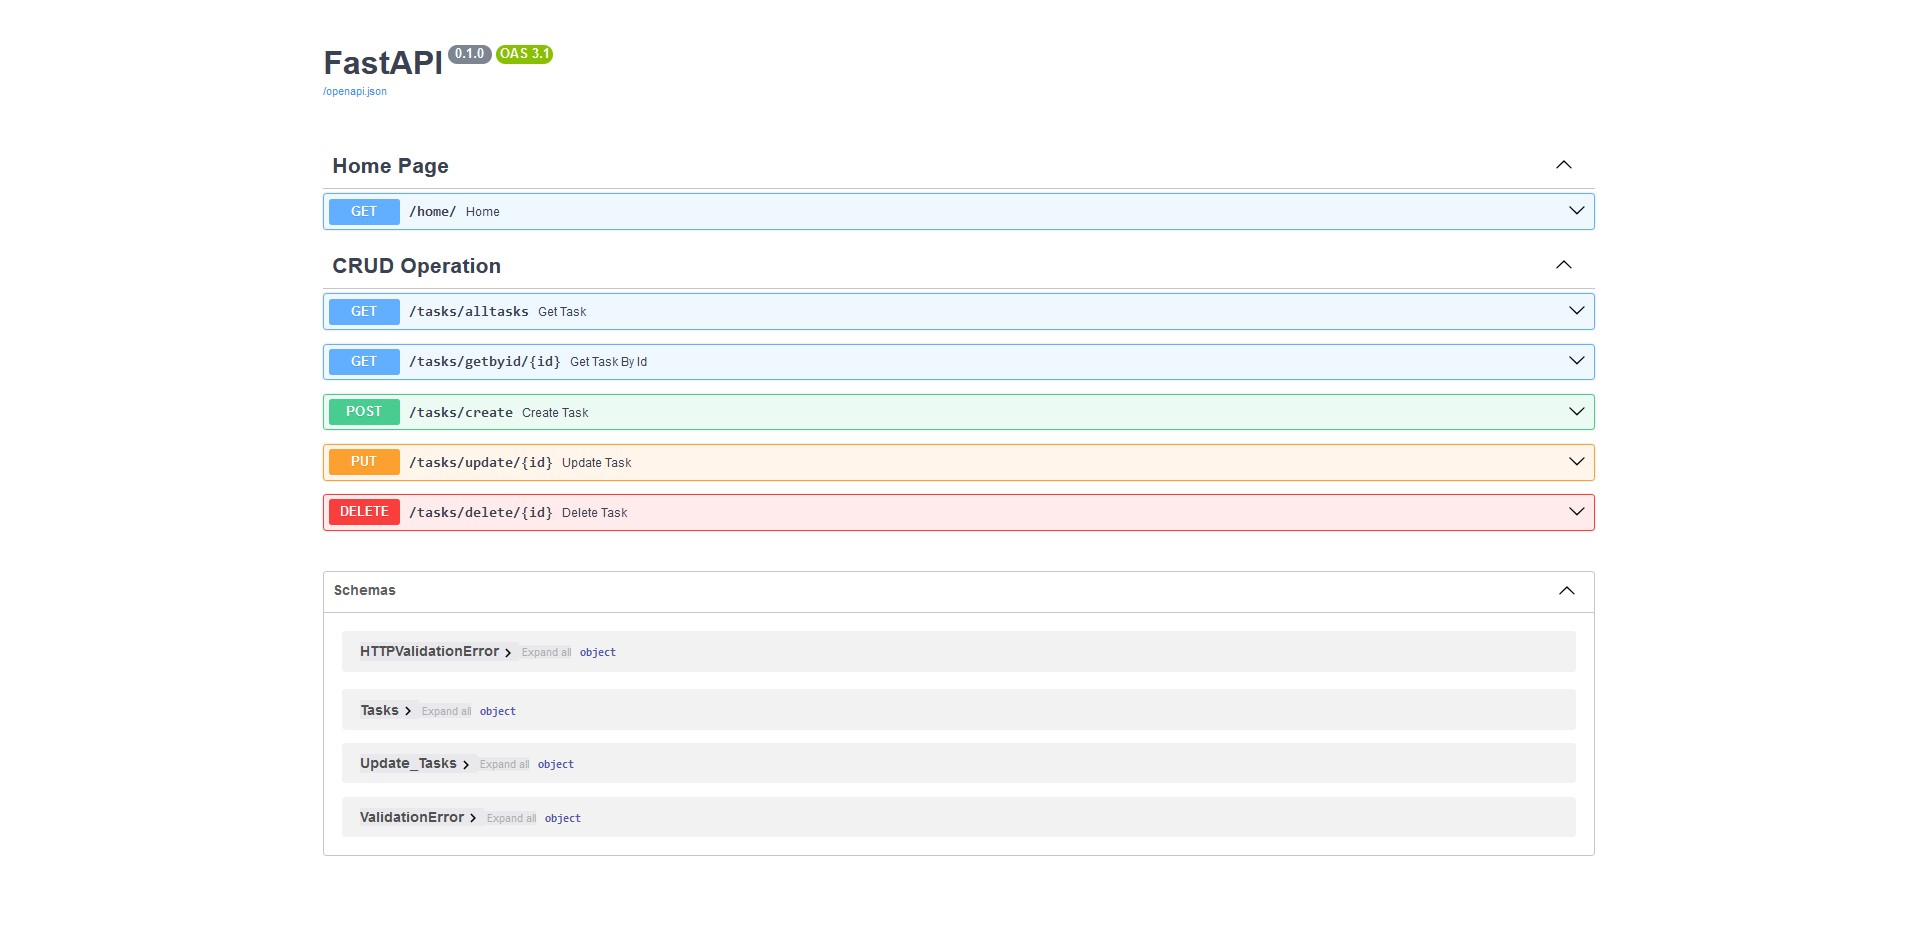
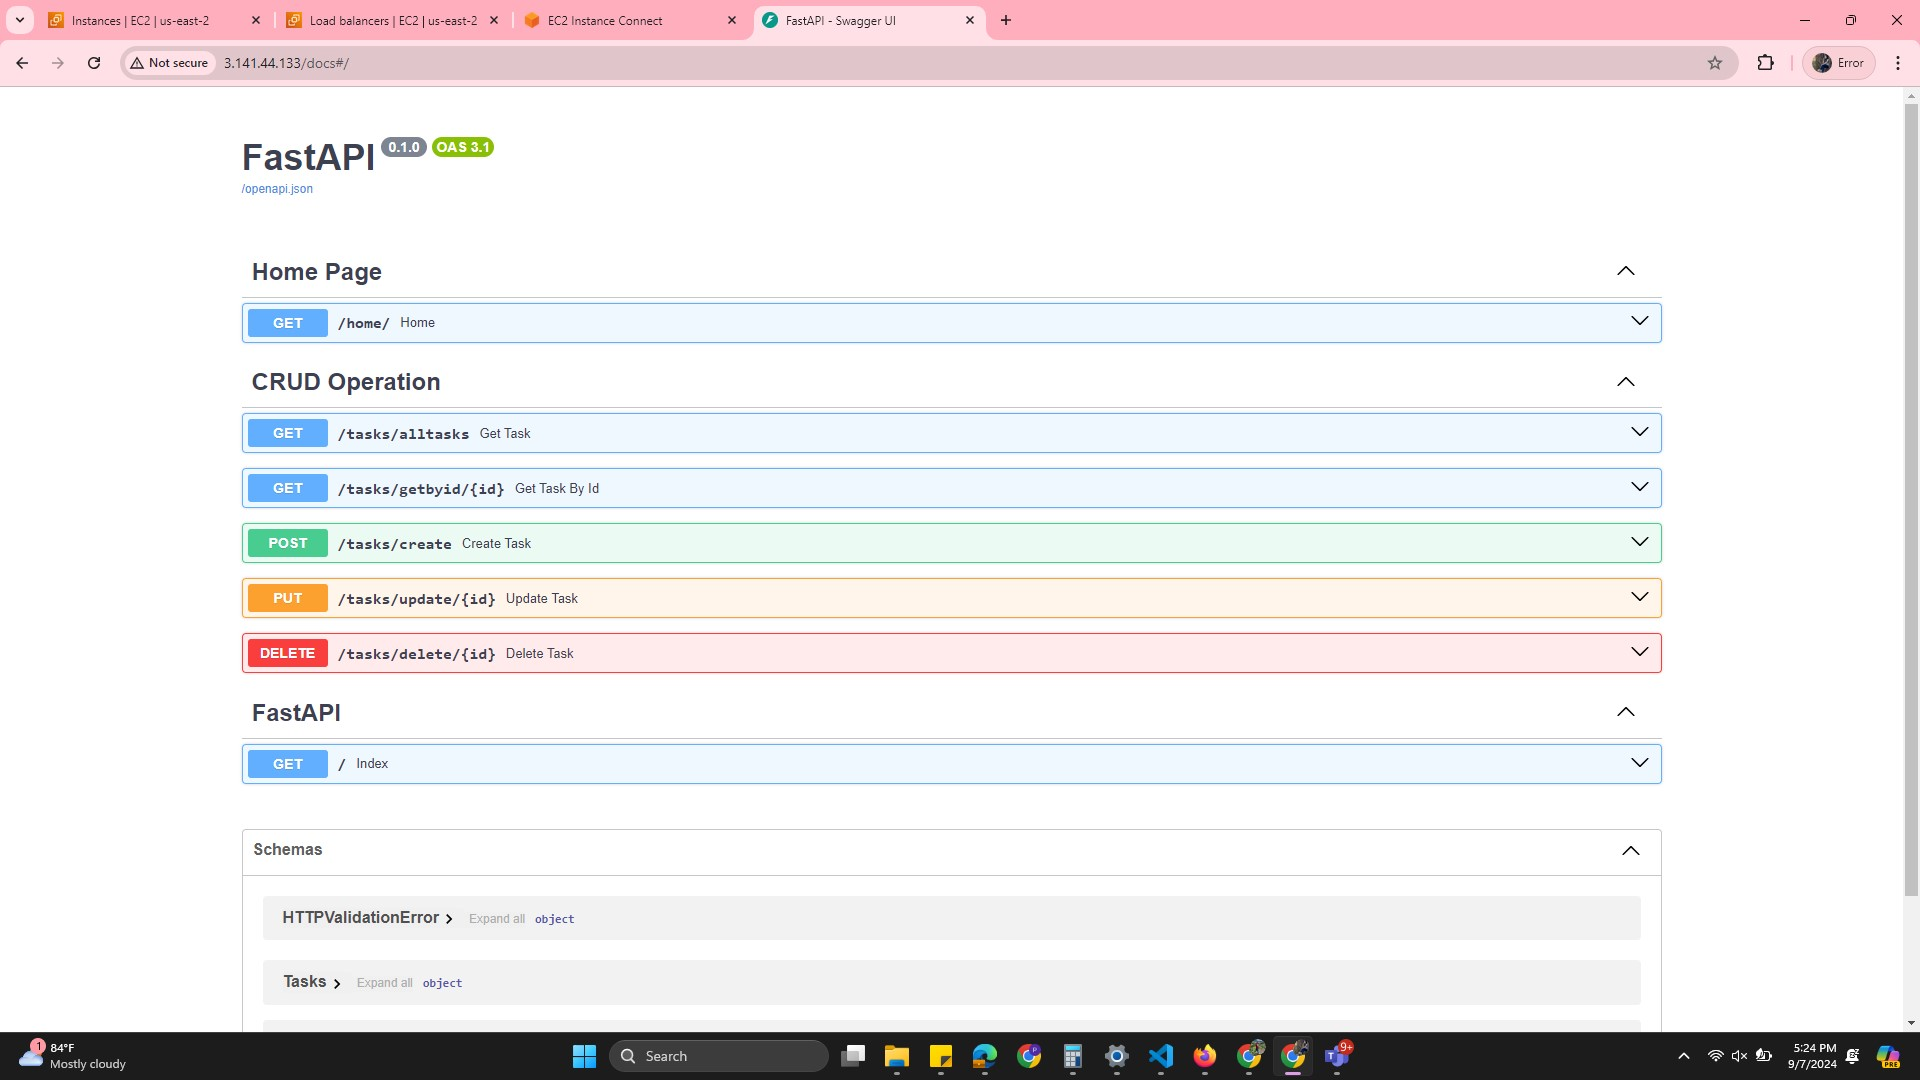
Fast API

diff --git a/crud.py b/crud.py
@@ -1,4 +1,6 @@
+import csv
 import datetime 
+import pandas as pd 
 from typing import Optional
 from fastapi import APIRouter
 from pydantic import BaseModel
@@ -9,73 +11,82 @@ router=APIRouter(prefix='/tasks',tags = ['CRUD Operation'])
 class Tasks(BaseModel):
     title: str
     description:str | None
-    date:datetime.datetime =datetime.datetime.now()
 
 class Update_Tasks(BaseModel):
     title: Optional[str] | None
     description: Optional[str] |None 
-    date:datetime.datetime =datetime.datetime.now()
 
 
-tasks=[
-    {"id":1,
-    "title":"task 1",
-    "description":"hi there you have to learn fastapi",
-    "date":datetime.datetime(2020, 5, 17)
-    },
-     {"id":2,
-    "title":"task 2",
-    "description":"make a project using fastapi",
-    "date":datetime.datetime(2020, 8, 17)
-    },
-      {"id":3,
-    "title":"task 3",
-    "description":"make crud operation using fastapi",
-    "date":datetime.datetime(2020, 8, 17)
-    },
-]
+def list_task():
+    myList=[]
+    myFile = open('list_task.csv', 'r')
+    reader = csv.DictReader(myFile)
+    for dictionary in reader:
+        myList.append(dictionary)
+    myFile.close()
+    return myList
+
 
 @router.get("/alltasks")
 def get_task(limit:int |None=10) ->list :
-    return tasks[:limit]
+    return list_task()[:limit]
 
-  
+
 @router.get("/getbyid/{id}")
 def get_task_by_id(id:int)->dict:
-    for x in tasks:
-        if x['id']==id:
+    myList=list_task()
+    for x in myList:
+        if x['id']==str(id):
             return x
     return {"Message":f"No task with the id :{id} found"}
 
 
 @router.post("/create")
-def create_task(task:Tasks) -> list:
+def create_task(task:Tasks):
     task_new = jsonable_encoder(task)
     l=[]
+    tasks=list_task()
     for i in range(len(tasks)):
-        l.append(tasks[i]["id"])
+        l.append(int(tasks[i]['id']))
     newid={}
-    newid["id"]=max(l)+1
+    if len(l)==0:
+        newid["id"]=1
+    else:
+        newid["id"]=max(l)+1
     res_task= {**newid, **task_new}
+    res_task['date']=datetime.datetime.now()
     tasks.append(res_task)
-    return tasks
+    df = pd.DataFrame.from_records(tasks) 
+    df.to_csv('list_task.csv', index=False)
+    return res_task
+
+
 
 @router.put("/update/{id}")
-def update_task(id:int,task:Update_Tasks)-> dict:
+def update_task(id:int,task:Update_Tasks)-> dict | list:
+    tasks=list_task()
     for x in tasks:
-        if x['id']==id:
+        if x['id']==str(id):
             if isinstance(task.title,str):
                 x['title']=task.title
             if isinstance(task.description,str):
                 x['description']=task.description
-            x['date']=task.date
+            x['date']=datetime.datetime.now()
+            df = pd.DataFrame.from_records(tasks) 
+            df.to_csv('list_task.csv', index=False)
             return x
     return {"Message":f"Task with id : {id} not found"}
 
+
+
 @router.delete("/delete/{id}")
 def delete_task(id:int):
+    tasks=list_task()
     for x in tasks:
-        if x["id"]==id:
+        if x["id"]==str(id):
             tasks.pop(tasks.index(x))
+            df = pd.DataFrame.from_records(tasks) 
+            df.to_csv('list_task.csv', index=False)
             return {"Message":f"Task of id {id} deleted successfully"}
     return {"Message":f"Task of id :{id} not found"}
+

diff --git a/main.py b/main.py
@@ -7,3 +7,6 @@ app=FastAPI()
 app.include_router(home.home_router)
 app.include_router(crud.router)
 
+@app.get("/",tags=["FastAPI"])
+def index():
+    return{"Message":"FASTAPI"}

diff --git a/Readme.md b/Readme.md
@@ -1,29 +1,33 @@
 Fast API
 
-documnetation  : https://fastapi.tiangolo.com/
+CRUD operation on Task 
 
-CRUD : Create , Read, Update, Delete operation
+Concepts Covered 
+-----------------------------------
+1  DOCKER
 
+    Docker is an open platform for developing, shipping, and running applications.
+    Created an Dockefile for FastAPI, Build the file and run it as a conatiner
+    Uploaded the image to the Docker hub
+    Check "docker pull asprajna/crud_app_fastapi:tagname"
 
-ARCHITECTURE OF RESTFUL API
-------------------------------
-api/users	     GET	Get all users
-api/users/new	 GET	Show form for adding new user
-api/users	     POST	Add a user
-api/users/1	     PUT	Update a user with id = 1
-api/users/1/edit GET	Show edit form for user with id = 1
-api/users/1	     DELETE	Delete a user with id = 1
-api/users/1	     GET	Get a user with id = 1
+2  GIT
 
-Pydantic
-It enables defining models you can use (and reuse) to verify that data conforms to the format you expect before you store or process it.
+    Craeted a git repository
+    Pushed the code to Git through SSH
 
--------------------------------------------------------------------------
-Concepts Covered in the project :
-- Craete a virtual environment , acticate , deactivate 
-- install all requirements 
-- Routing in Fast API
-- CRUD operation 
-- ARchitecture of Rest 
-- git operations 
-------------------------------------------------------------------------------
+3  EC2
+
+    Created an EC2 AWS instances using AWS web interface (download .ppk/.pem)
+    Connect using .ppk file / SSH / Console
+    Pull the dockerfile and Run the container
+    Open the exported port on Public IP address of the instance
+
+4  CLOUD RUN
+    
+    Pull the Docker file
+    Create a repository in Artifact Registry of GCP using gcloud or web page
+    Push the image to Artifact Registry 
+    Create a Cloud RUN service using the image from Artifact registary
+
+    
